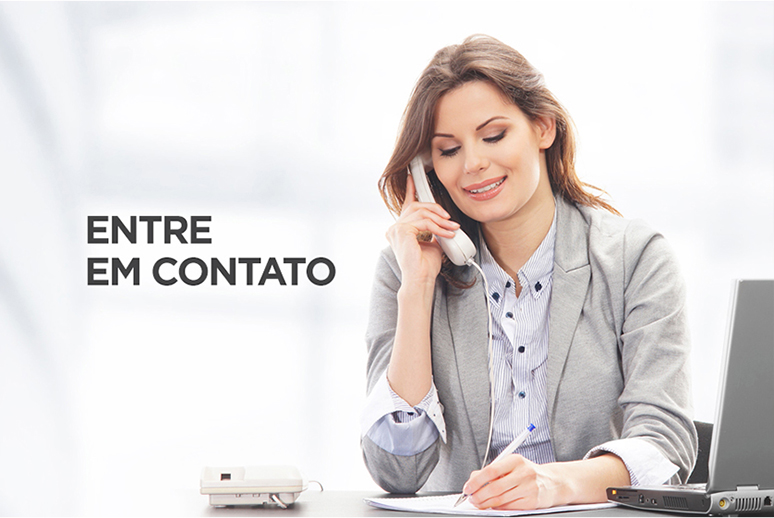
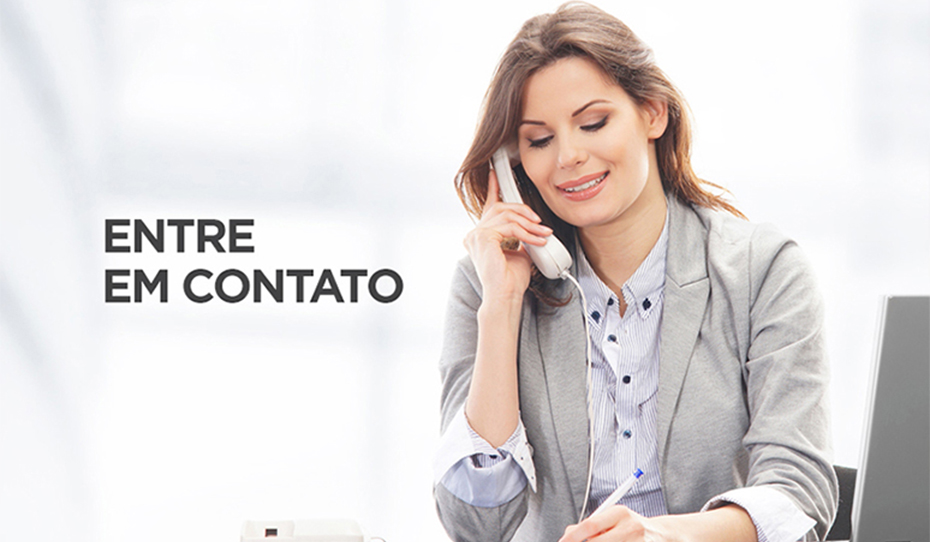
Ajustes em fale conosto

diff --git a/wp-content/themes/brasilprofissoes/page-fale-conosco.php b/wp-content/themes/brasilprofissoes/page-fale-conosco.php
@@ -3,8 +3,12 @@
      <section>
         <div class="container">
         	<div class="row">
-        			<img src="<?php echo get_stylesheet_directory_uri() ?>/img/banerfaleconosco.jpg" class="col-md-9 img_publicidade img-responsive" style="height: 516px;">
-					<img src="<?php echo get_stylesheet_directory_uri() ?>/img/estado_menor.jpg" class="col-md-3 nopad img-responsive">
+        			<div class="col-md-9 img_publicidade">
+        				<img src="<?php echo get_stylesheet_directory_uri() ?>/img/banerfaleconosco.jpg" class="img-responsive">
+					</div>
+					<div class="col-md-3 nopad">
+						<img src="<?php echo get_stylesheet_directory_uri() ?>/img/estado_menor.jpg" class="img-responsive">
+        			</div>
         	</div>	
 
         	<div class="row pad-y formulario-parceiro">
